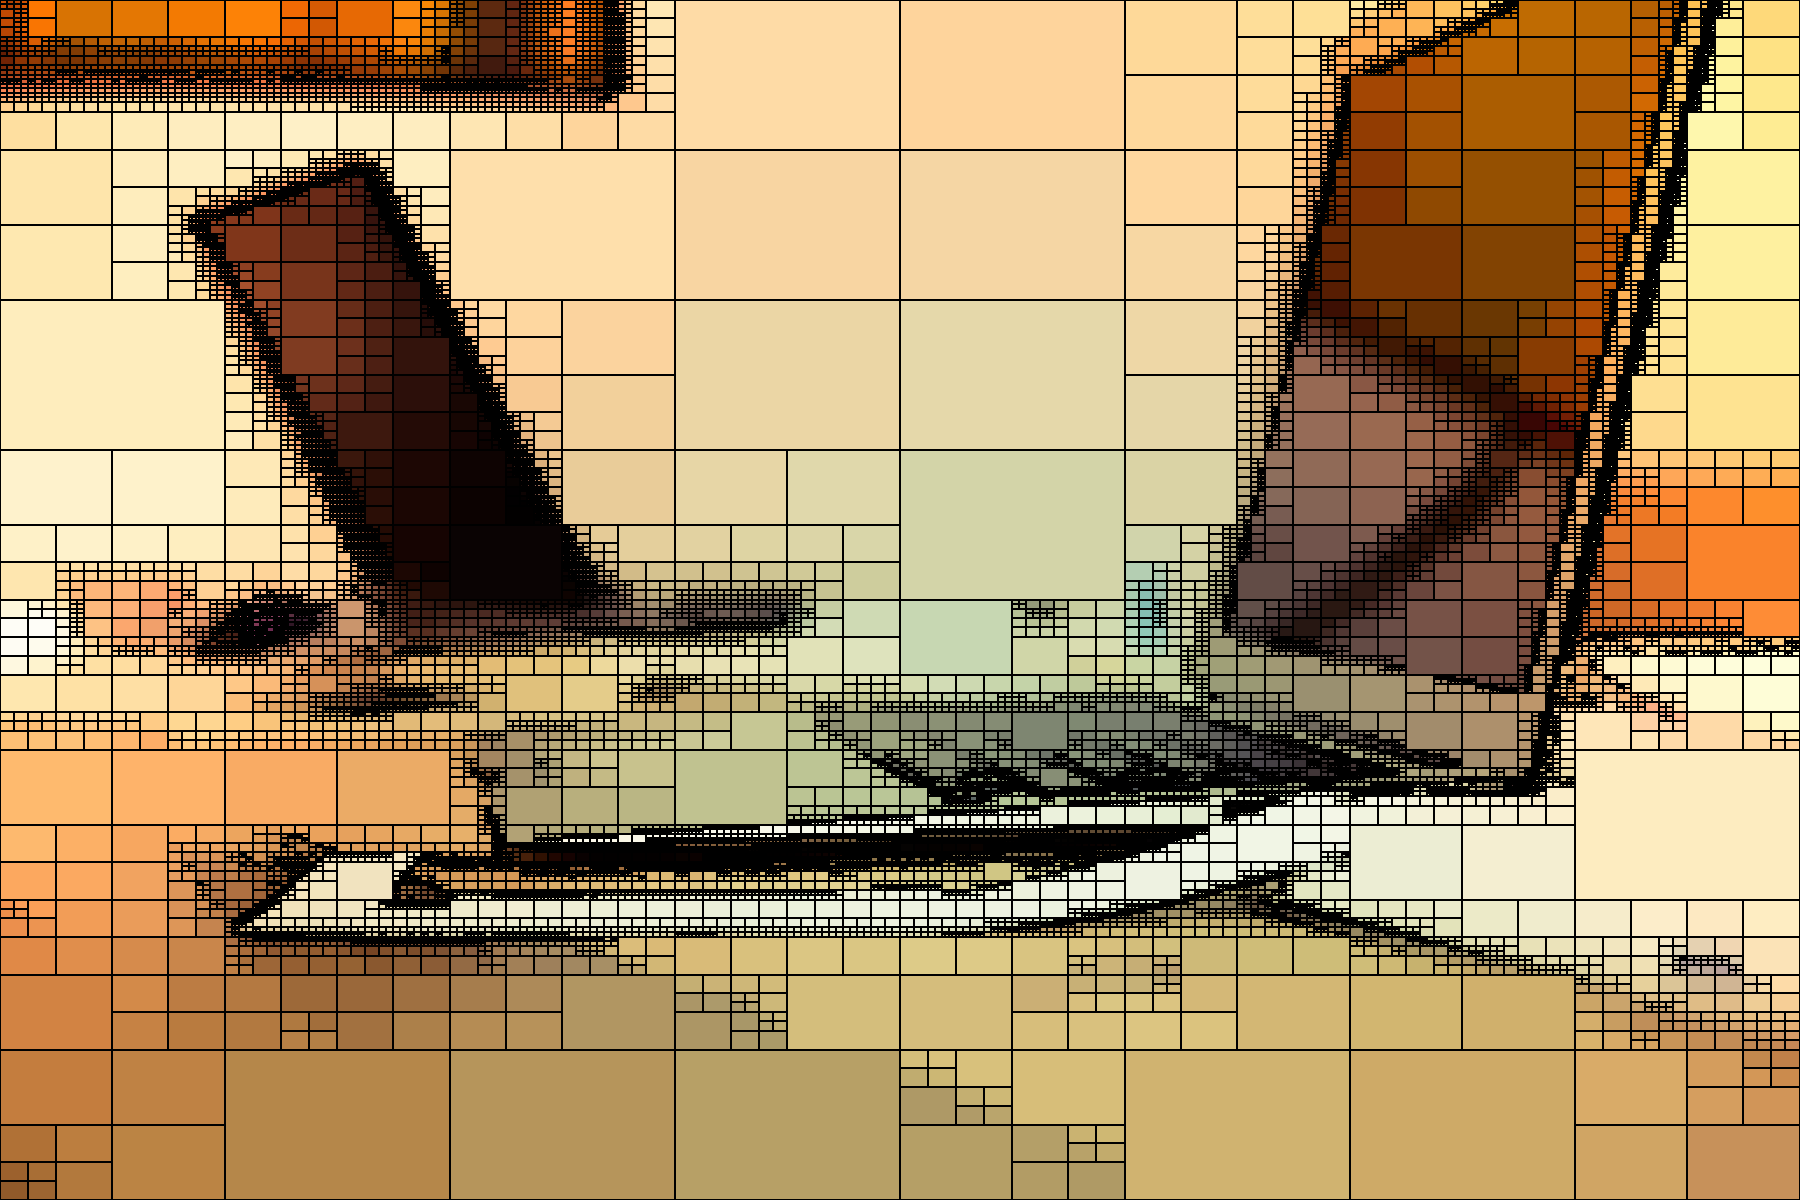
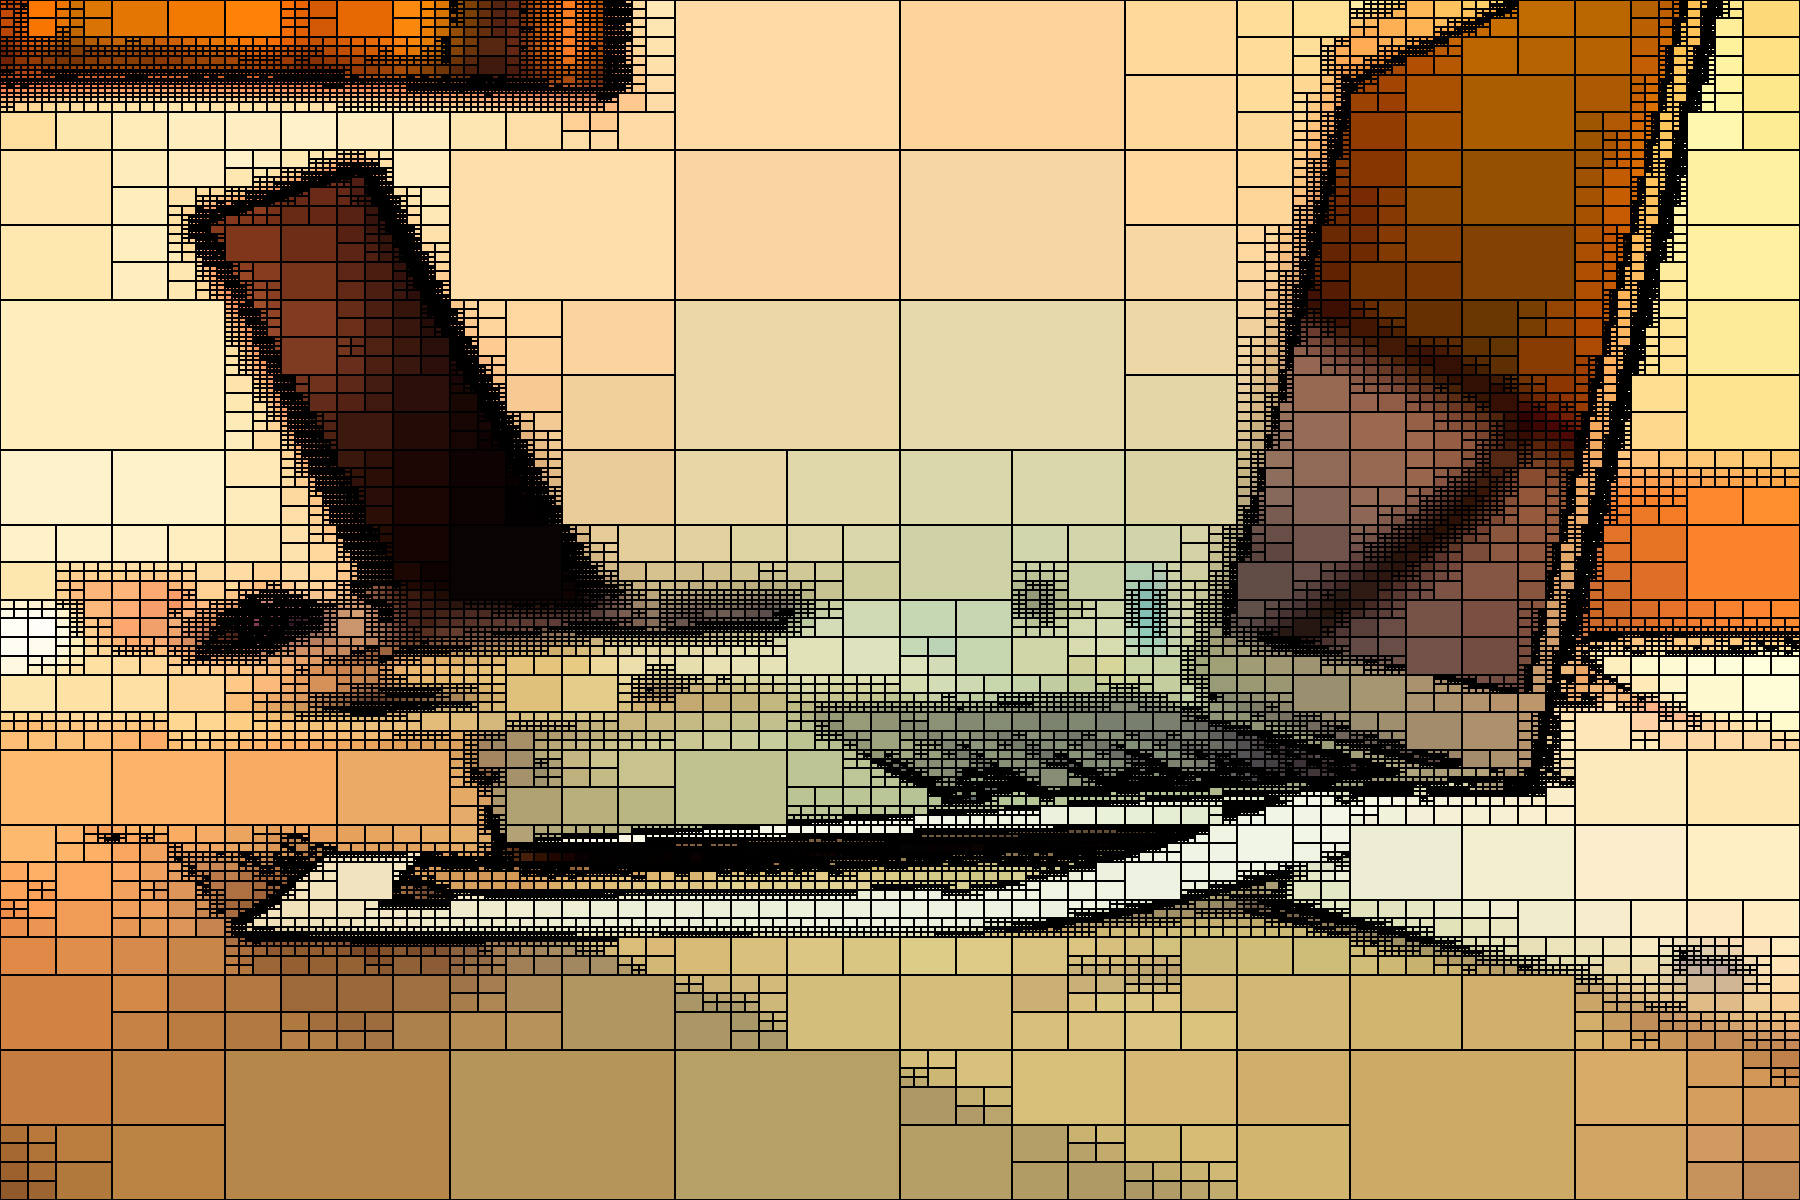
Minor changes

diff --git a/main.py b/main.py
@@ -49,8 +49,8 @@ class ImageDownsampling:
         return up_sampled
 
 
-QT_THRESHOLD = 18
-QT_DEPTH_LIMIT = 14
+QT_THRESHOLD = 12
+QT_DEPTH_LIMIT = 16
 
 
 def _save(label: object, image: Image.Image, root: "QuadtreeOptimization.QuadTree", show_borders=False):
@@ -65,12 +65,12 @@ def _save(label: object, image: Image.Image, root: "QuadtreeOptimization.QuadTre
             case value:
                 for y in range(current.start[1], current.end[1]):
                     for x in range(current.start[0], current.end[0]):
-                        if current.value is not None:
-                            output_image.putpixel((x, y), tuple(value))
+                        output_image.putpixel((x, y), tuple(value))
 
                         if (y in (current.start[1], current.end[1] - 1) or
-                                x in (current.start[0], current.end[0] - 1)) and show_borders:
+                            x in (current.start[0], current.end[0] - 1)) and show_borders:
                             output_image.putpixel((x, y), (0, 0, 0))
+    print("Saving", label)
     output_image.save(f"output/{label}.png")
 
     return output_image
